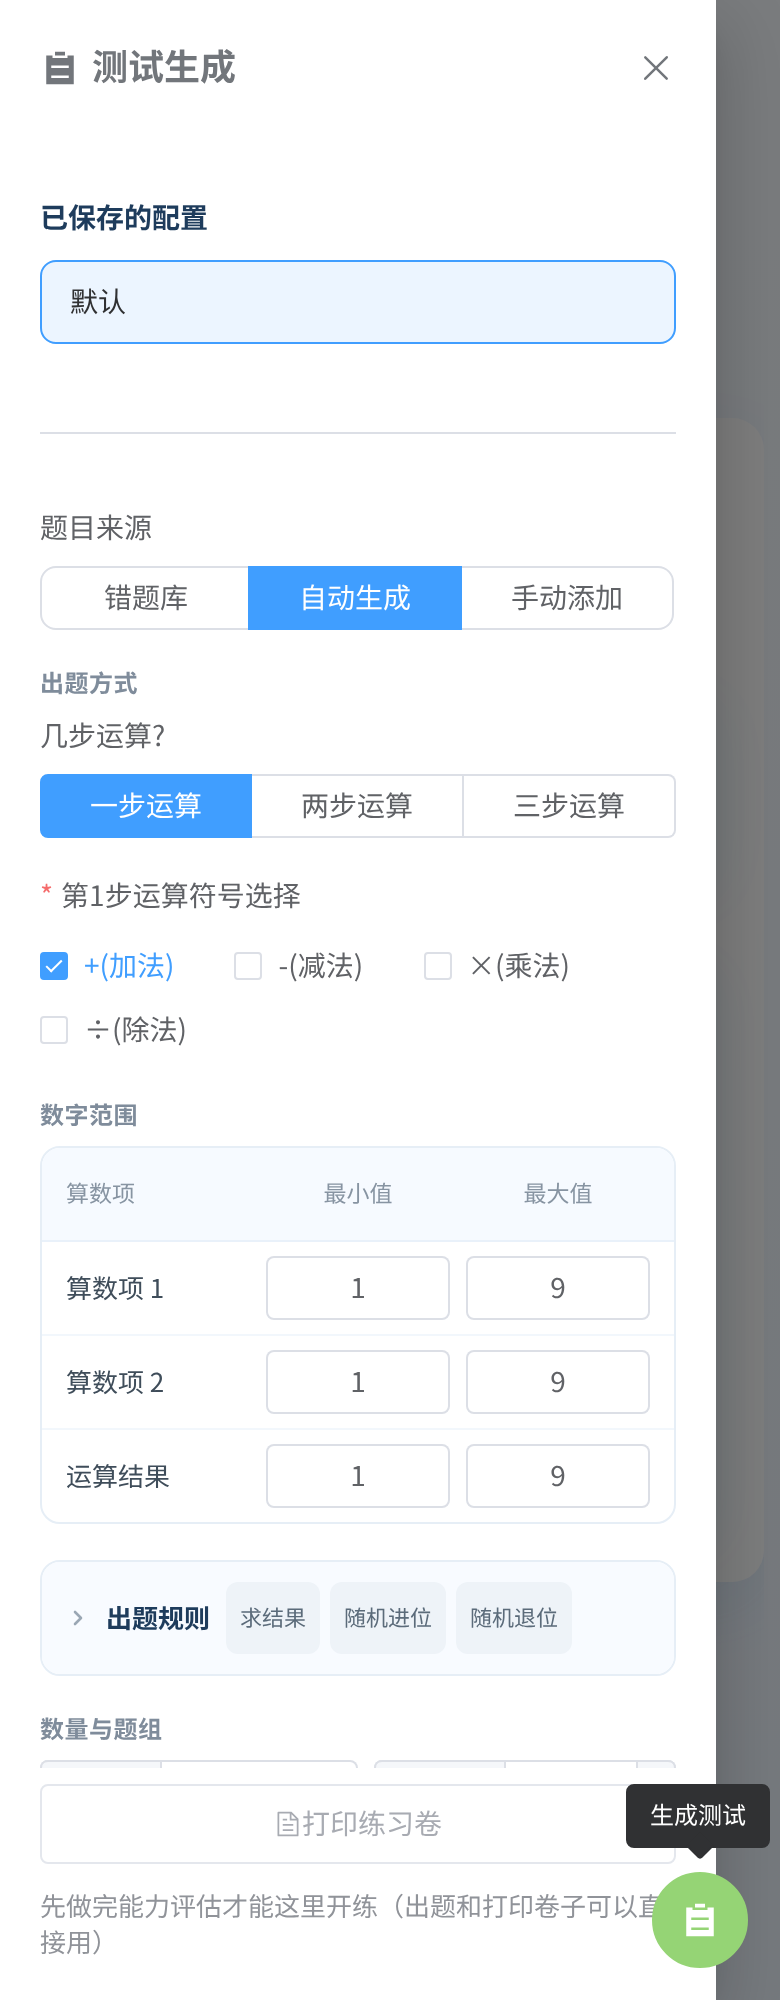
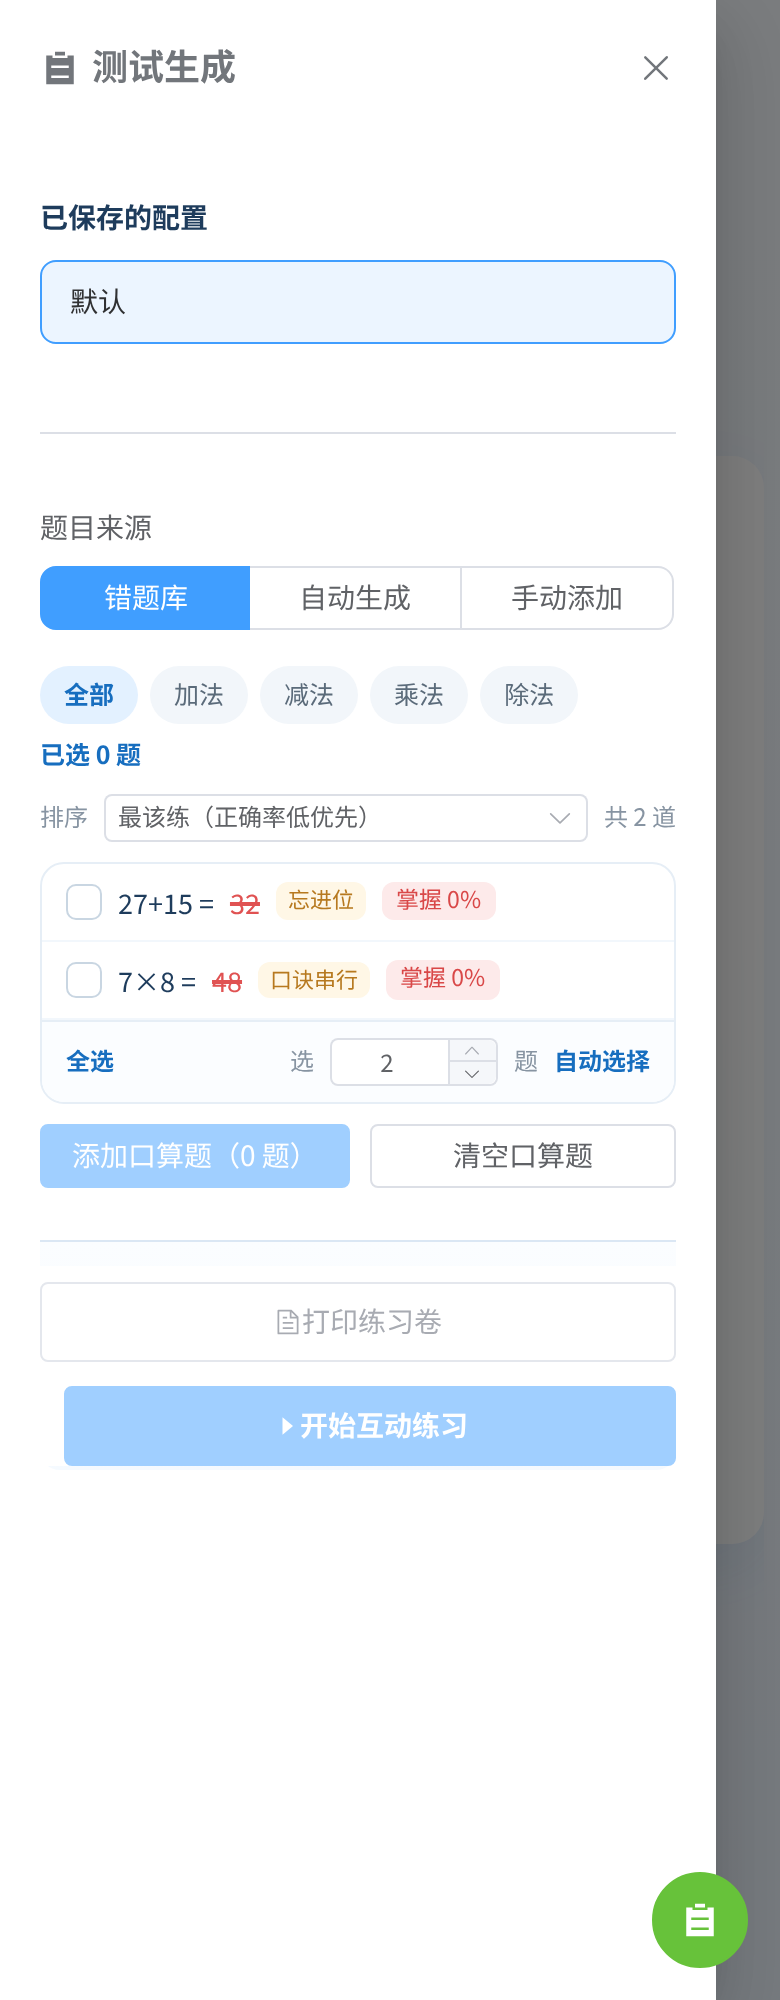
feat(generate): 解题方式还原到共用出题规则；分组标题改色块；错题库按钮与其它页对齐
dr 反馈三项：

1) 「解题方式」还原（我上一轮移错了）
- 它写进每张卷子的 solution、Print 用它定行高，三种来源都吃 → 属于共用配置
- 已从「生成卷子」对话框移回「出题规则」折叠块，badge 恢复「口算解题」

2) U4 改得更明显
- 分组标题从灰色小字升级为色块：浅蓝底 #f2f8ff + 左侧 3px 主色条 + 圆角
- 三个标题：出题方式 / 数字范围 / 数量与题组

3) 出口按钮与配置区区分 + 错题库按钮对齐
- 底部「打印练习卷 / 开始互动练习」加分隔线 + 浅色渐变底 + 内边距，成为独立操作条
- 错题库页底部改为与其他两页同一组按钮：`添加口算题（N 题）` / `清空口算题`
  （清空口算题 = 清空题组列表，新增 clearAllPapers）
- 「清空选择」从列表底去掉（全选在已全选时即取消全选），列表底只留
  全选 · 选 [N] 题 · 自动选择，并改成 nowrap —— 390 宽度下不再拆字换行

实测 390/1280：分组标题有色块、footer 有分隔线、错题库两按钮与其它页一致、
列表底一行放得下；36 文件 / 376 用例通过

diff --git a/src/components/Generate.vue b/src/components/Generate.vue
@@ -48,7 +48,7 @@
           </template>
           <!-- 错题库 -->
           <template v-if="formData.generateMode == '3'">
-            <WrongBookTab @add-to-practice="addWrongBookPaper" />
+            <WrongBookTab @add-to-practice="addWrongBookPaper" @clear-papers="clearAllPapers" />
           </template>
           <!-- 手动输入 -->
           <template v-if="formData.generateMode == '2'">
@@ -71,7 +71,8 @@
           </template>
         </ElForm>
 
-        <div class="drawer-actions">
+        <div class="drawer-actions-wrap">
+          <div class="drawer-actions">
           <el-button :disabled="!paperList.length" size="large" :loading="buttonLoading"
             @click="openPaperDialog" class="action-btn">
             <el-icon><Document /></el-icon> 打印练习卷
@@ -81,7 +82,8 @@
             @click="generateFormulas" class="action-btn action-btn--primary">
             <el-icon><CaretRight /></el-icon> 开始互动练习
           </el-button>
-          <span v-else class="practice-locked-hint">先做完能力评估才能这里开练（出题和打印卷子可以直接用）</span>
+            <span v-else class="practice-locked-hint">先做完能力评估才能这里开练（出题和打印卷子可以直接用）</span>
+          </div>
         </div>
       </div>
     </el-drawer>
@@ -94,13 +96,6 @@
           <el-input-number v-model="formData.numberOfPagerColumns" :min="1" :max="6" :step="1"
             controls-position="right" class="paper-dialog__num" />
           <span class="paper-dialog__hint">一行放几道题</span>
-        </el-form-item>
-        <el-form-item label="解题方式">
-          <el-radio-group v-model="formData.solution">
-            <el-radio-button label="0">口算（一行一题）</el-radio-button>
-            <el-radio-button label="1">竖式（留竖式空位）</el-radio-button>
-          </el-radio-group>
-          <span class="paper-dialog__hint">影响打印版式，三种题目来源通用</span>
         </el-form-item>
         <el-form-item label="文件名规则">
           <el-radio-group v-model="formData.fileNameGeneratedRule">
@@ -318,6 +313,16 @@ const generate = () => {
   }
 }
 
+/** 清空所有题组（错题库页的「清空口算题」按钮） */
+function clearAllPapers() {
+  if (!paperList.value.length) {
+    proxy.$message.info('当前还没有题组')
+    return
+  }
+  paperList.value = []
+  proxy.$message.success('已清空全部题组')
+}
+
 /**
  * 错题库「加入练习」：把选中的题变成一条题组，和自动生成/手输的题组混排
  * 数据结构与「手动添加」一致（customFormulaList），打印与练习都走同一条链路。
@@ -498,11 +503,18 @@ const handleClose = (done) => {
   }
 }
 
-// ── Action buttons ──
+// ── Action buttons（与上方配置区分开：分隔线 + 浅底 + 同一左右边界）──
+.drawer-actions-wrap {
+  margin-top: 14px;
+  padding: 12px 0 2px;
+  border-top: 1px solid #dbe7f4;
+  background: linear-gradient(180deg, #fbfdff 0%, #f5faff 100%);
+  border-radius: 0 0 10px 10px;
+}
+
 .drawer-actions {
   display: flex;
   gap: 12px;
-  margin-top: 4px;
 
   .action-btn {
     flex: 1;

diff --git a/src/components/generate/WrongBookTab.vue b/src/components/generate/WrongBookTab.vue
@@ -64,11 +64,12 @@
     </div>
 
     <!-- 底部动作 -->
+    <!-- 与自动生成 / 手动添加同一组按钮：「添加口算题」把选中的题变成题组 -->
     <div class="wb-actions">
-      <el-button :disabled="!selectedCount" @click="clearSelection">清空选择</el-button>
       <el-button type="primary" :disabled="!selectedCount" @click="addToPractice">
-        加入练习（{{ selectedCount }} 题）
+        添加口算题（{{ selectedCount }} 题）
       </el-button>
+      <el-button @click="emit('clear-papers')">清空口算题</el-button>
     </div>
   </div>
 </template>
@@ -91,7 +92,7 @@ import { Answer, WrongAnswer } from '@/services'
 import { Profile } from '@/services/abilityProfile'
 import { explainError } from '@/utils/algorithm/explainError'
 
-const emit = defineEmits(['add-to-practice', 'start-practice'])
+const emit = defineEmits(['add-to-practice', 'clear-papers'])
 
 const loading = ref(true)
 const rows = ref([])
@@ -303,6 +304,11 @@ onMounted(load)
   display: flex;
   align-items: center;
   gap: 8px;
+  flex-wrap: nowrap;
+}
+
+.wb-sortrow > * {
+  white-space: nowrap;
 }
 
 .wb-sortlabel {
@@ -416,9 +422,17 @@ onMounted(load)
   display: flex;
   align-items: center;
   gap: 8px;
+  flex-wrap: nowrap;
   padding: 8px 12px;
   background: #fbfdff;
   border-top: 1px solid #e6eef6;
+  overflow-x: auto;
+}
+
+.wb-listfoot .wb-link,
+.wb-listfoot .wb-sortlabel {
+  white-space: nowrap;
+  flex: 0 0 auto;
 }
 
 .wb-link {
@@ -447,7 +461,8 @@ onMounted(load)
 
 @media (max-width: 480px) {
   .wb-sortselect {
-    width: 100%;
+    min-width: 0;
+    flex: 1 1 auto;
   }
 
   .wb-item {

diff --git a/src/components/generate/AutoGenerateFormulas.vue b/src/components/generate/AutoGenerateFormulas.vue
@@ -103,6 +103,13 @@
               </el-radio-button>
             </el-radio-group>
           </div>
+          <div class="rules-row">
+            <span class="rules-row__label">解题方式</span>
+            <el-radio-group v-model="formData.solution">
+              <el-radio-button label="0">口算</el-radio-button>
+              <el-radio-button label="1">竖式</el-radio-button>
+            </el-radio-group>
+          </div>
         </div>
       </div>
     </ElFormItem>
@@ -398,6 +405,7 @@ const ruleBadges = computed(() => {
   if (f.enableBrackets) out.push('带括号')
   out.push(carryMap[f.carry] || '随机进位')
   out.push(abdicationMap[f.abdication] || '随机退位')
+  out.push(f.solution == '1' ? '竖式解题' : '口算解题')
   return out
 })
 
@@ -627,13 +635,20 @@ const addConfiguration = () => {
 }
 
 /* ── 出题规则（内联折叠，取代「其他设置」二级抽屉）── */
-/* 分组标题：灰色小字，与抽屉里其它区块同一套视觉 */
+/* 分组标题：浅色块 + 左侧色条，让一眼看出「这里是另一组配置」 */
 .section-title {
-  font-size: 12px;
-  font-weight: 600;
-  color: #7f8c9b;
+  display: flex;
+  align-items: center;
+  gap: 8px;
+  margin: 16px 0 10px;
+  padding: 7px 12px;
+  border-radius: 8px;
+  background: #f2f8ff;
+  border-left: 3px solid #1cb0f6;
+  font-size: 12.5px;
+  font-weight: 700;
+  color: #176ebf;
   letter-spacing: 0.02em;
-  margin: 14px 0 6px;
 }
 
 .section-title:first-child {

diff --git a/.refactor-todo.md b/.refactor-todo.md
@@ -32,9 +32,9 @@
 | P1-ARCH | 🟡 | 架构违规 38 处：V→U 23、V→S 9（静态 4 + 动态 5）、U→S 4、M→S 2 | 多文件 | 单独开分支分批修。顺序：先 M→S 2 处（stores/practice.js、stores/stats.js）+ U→S 4 处（score.js、equationParser.js、adaptiveBatch.js、diagnostic.js），边界清晰、改动小；V→U 23 处需先补 composable 出口，再逐个换 import。每批完整跑 vitest + 头部页面实测 |
 | M1 | 🟡 | `Practice.vue` `handlePracticeComplete` 310 行单函数（537-847），与 `useAdaptiveSession.completeGroup` 职责重叠 | `src/components/Practice.vue` | 按三段拆出：汇总计算（纯函数）/ 落库 / 弹窗交互；优先抽「汇总计算」，它与 UI 无关、可单测 |
 | P3-CATCH | 🟢 | `StatsDrawer.vue:355` 空 catch 无注释，未确认是有意降级还是漏处理 | `src/components/stats/StatsDrawer.vue` | 补注释说明意图；若确实是漏处理则补日志或兜底 |
-| U2 | ✅ | 「出题规则」是否对手动添加/错题库有效 | `utils/paperGenerator.js` | ✅ 2026-11-27 核实：题型/括号/进位/退位/除法 **只喂给自动生成器**（`postAutoGeneratePaperList` → FormulasGenerator），自定义题组走 `customFormulaList` 分支根本不过这些参数 → 这两页不显示是**正确行为**，不需要上提。唯一例外是「解题方式」，它写进每张卷子的 `solution` 字段、Print 用来定行高（口算 16px / 竖式 160px）→ 已移到「生成卷子」对话框的版式区 |
+| U2 | ✅ | 「出题规则」是否对手动添加/错题库有效 | `utils/paperGenerator.js` | ✅ 2026-11-27 核实：题型/括号/进位/退位/除法只喂自动生成器，自定义题组不走这些参数 → 这两页不显示是**正确行为**。「解题方式」例外（写进 `solution`，Print 定行高），**dr 要求留在共用配置里**，已还原到「出题规则」 |
 | U3 | ✅ | 「卷子份数」一名两职 | `AutoGenerateFormulas.vue` | ✅ 2026-11-27：标签改成「卷子/练习 … 份」，390 宽度下输入框仍有 45px、无溢出 |
-| U4 | ✅ | 出题抽屉缺分组标题 | `AutoGenerateFormulas.vue` | ✅ 2026-11-27：加「出题方式 / 数字范围 / 数量与题组」三个轻量标题；表格首列同时从「数字范围」改为「算数项」，避免与外层标题重复 |
+| U4 | ✅ | 出题抽屉缺分组标题 | `AutoGenerateFormulas.vue` | ✅ 2026-11-27：三个**带底色块**的分组标题（浅蓝底 + 左色条）「出题方式 / 数字范围 / 数量与题组」；表格首列改「算数项」避免重复；底部两个出口按钮加分隔线 + 浅底，与配置区分开 |
 | U5 | 🟢 | 「题目来源」默认停在「自动生成」而标签顺序是「错题库」第一，首个标签不是默认项 | `Generate.vue` | 若错题库非空则默认进错题库；空时回落自动生成 |
 | U6 | 🟢 | `adaptiveBatch.muldiv.spec.js` 原断言 `generateOneQuestion` 连续 3 次非空，但该函数返回 null 是正常契约（已改成每种题 8 次机会） | `test/services/adaptiveBatch.muldiv.spec.js` | ✅ 2026-11-27 已修；保留此条提醒：新增生成类测试要按"可空 + 重试"的契约写 |
 | U1 | ✅ | 「卷子数量」与练习长度语义不一致 | `Generate.vue` / `utils/paperGenerator.js` | ✅ 2026-11-26：一张卷子 = 一组练习，卷子数量移回共用区（与「口算题数」同一行），每组结束自评。见 [18-PLAN-manual-groups.md](./designDocs/18-PLAN-manual-groups.md) |
